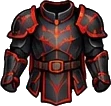
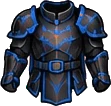
Flip the dark shadow pieces from red to blue
Claude-Session: https://claude.ai/code/session_014hwLnw7N5DzXcJERVdqgaa

diff --git a/design/cut-armor.py b/design/cut-armor.py
@@ -6,7 +6,7 @@
 # Belts are painted as a full ring; only the front band is kept (see BELT_FRONT); then weapon-1..11, shield-1..6 and the accessories. (The sheet's shoulders/arms
 # row is not used: the chest pieces already have sleeves.)
 from PIL import Image
-import json, os
+import colorsys, json, os
 
 HERE = os.path.dirname(os.path.abspath(__file__))
 OUT = os.path.join(HERE, '..', 'public', 'armor')
@@ -14,8 +14,8 @@ SIZES = os.path.join(HERE, '..', 'src', 'ui', 'armorSizes.json')
 
 BELT_FRONT = (0.08, 0.36, 0.92)  # left, top and right of the front band, as fractions of the belt picture
 BOW_CLEAN = {'weapon-8': 120, 'weapon-11': 175}  # the two bows, and how bright a colourless pixel must be to be cleared
-# The shadow and spiked helmets have glowing red eyes; the eye area (left, top, right, bottom as fractions of the picture) is turned dark
-EYES = {'helmet-4': (0.12, 0.45, 0.88, 0.66), 'helmet-7': (0.12, 0.38, 0.88, 0.72)}
+# The dark pieces with red glow (including the helmets' glowing eyes) are flipped from red to blue
+BLUE_FLIP = ['helmet-4', 'helmet-7', 'chest-4', 'belt-3', 'boots-3', 'boots-12', 'cape-6', 'shield-5', 'weapon-3']
 ACCESSORIES = ['ring', 'amulet', 'gloves', 'scroll', 'pouch', 'lantern', 'charm', 'banner', 'medal']
 
 BOXES = {
@@ -47,14 +47,17 @@ for f in os.listdir(OUT):
 sizes = {}
 for name, box in sorted(names.items()):
     piece = sheet.crop(tuple(box))
-    if name in EYES:
+    if name in BLUE_FLIP:
         px = piece.load()
-        x0, y0, x1, y1 = (round(f * d) for f, d in zip(EYES[name], (piece.width, piece.height, piece.width, piece.height)))
-        for y in range(y0, y1):
-            for x in range(x0, x1):
+        for y in range(piece.height):
+            for x in range(piece.width):
                 r, g, b, a = px[x, y]
-                if a and r > 60 and r > g * 1.4 and r > b * 1.4:
-                    px[x, y] = (18, 14, 16, a)
+                if not a:
+                    continue
+                h, sat, v = colorsys.rgb_to_hsv(r / 255, g / 255, b / 255)
+                if sat > 0.35 and (h < 0.045 or h > 0.94):  # a strong red: turn it to blue, keeping its brightness and depth
+                    r, g, b = (round(c * 255) for c in colorsys.hsv_to_rgb(0.6, sat, v))
+                    px[x, y] = (r, g, b, a)
     if name in BOW_CLEAN:
         # the sheet leaves a pale smudge (and a checkerboard) between the wood and the string: clear every pale, colourless pixel
         floor = BOW_CLEAN[name]

diff --git a/DECISIONS.md b/DECISIONS.md
@@ -288,5 +288,5 @@ No real iPhone or WebKit is available in this environment (Playwright runs Chrom
 **Removed:** the grey `Underlayer` behind the armor was tried and taken out again at the owner's request; nothing is drawn behind the armor now.
 
 ## v1.18.3 — Smaller shield, no glowing red eyes (owner request)
-**What:** shield scale 1.55 -> 1.3; `helmet-4` (shadow) and `helmet-7` (spiked) have the red glow in the eye area turned dark by the cut script (`EYES` in `design/cut-armor.py`). The red cracks on the shadow helmet and the red shadow chest plate were left alone, since only the eyes were mentioned.
+**What:** shield scale 1.55 -> 1.3; the dark pieces with a red glow are flipped from red to blue by the cut script (`BLUE_FLIP` in `design/cut-armor.py`, hue only, so gold and metal are untouched): helmets 4 and 7, chest 4, belt 3, boots 3 and 12, cape 6, shield 5, weapon 3. The genuinely red pieces (the Crimson set, the red lion capes) stay red.
 **Swapping art:** new art with the same size and layout as the sheet only needs `design/armor-sheet.webp` replaced (with its background removed) and `python3 design/cut-armor.py` run again; if any piece moves, edit its box in that script.

diff --git a/CHANGELOG.md b/CHANGELOG.md
@@ -9,7 +9,7 @@ Add notes for the next release under **Unreleased**; `npm run release -- patch|m
 
 ### Changed
 - The shield is a bit smaller.
-- The shadow and spiked helmets no longer have glowing red eyes (the eye area is dark now).
+- The dark "shadow" pieces (shadow and spiked helmets, shadow chest plate, belt, boots and cape, the spiked shield and the dark sword) now glow blue instead of red, so the helmets no longer have glowing red eyes.
 
 ## [1.18.2] - 2026-10-20
 
